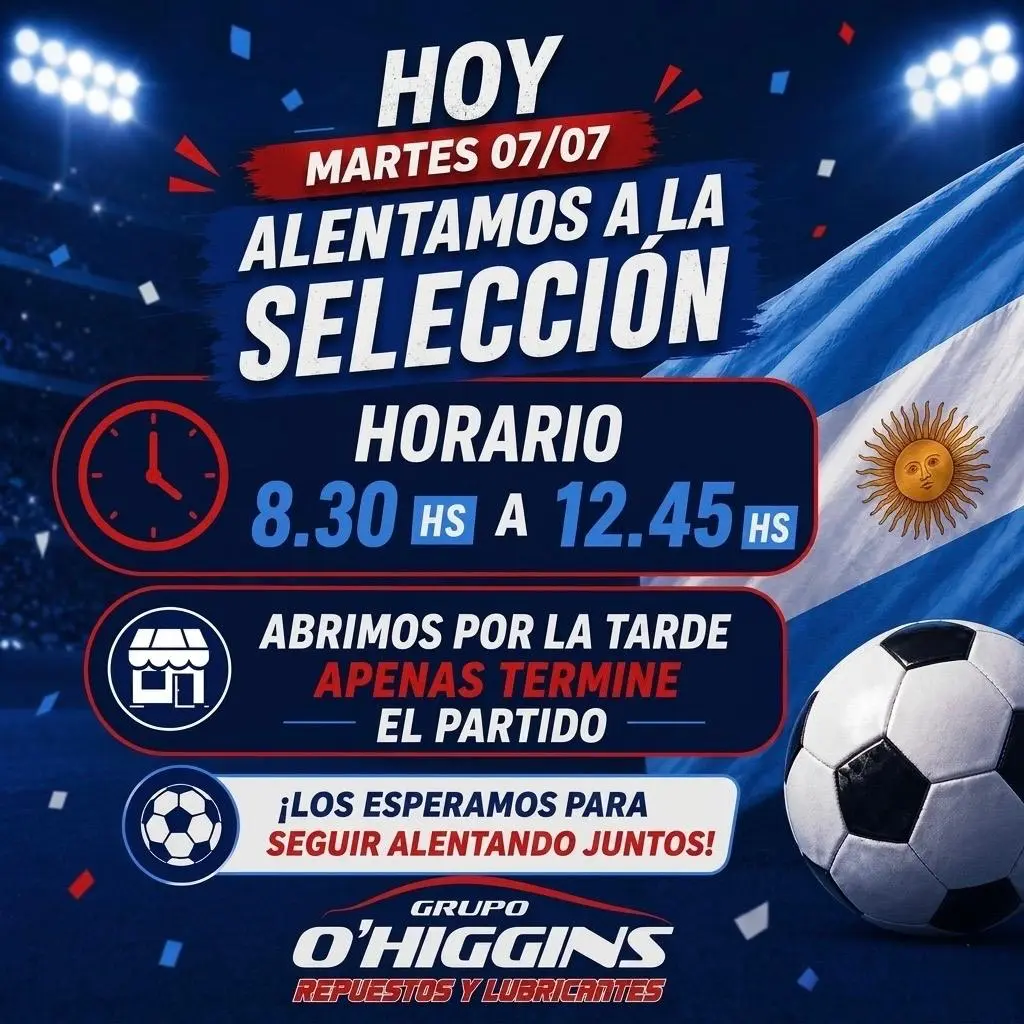
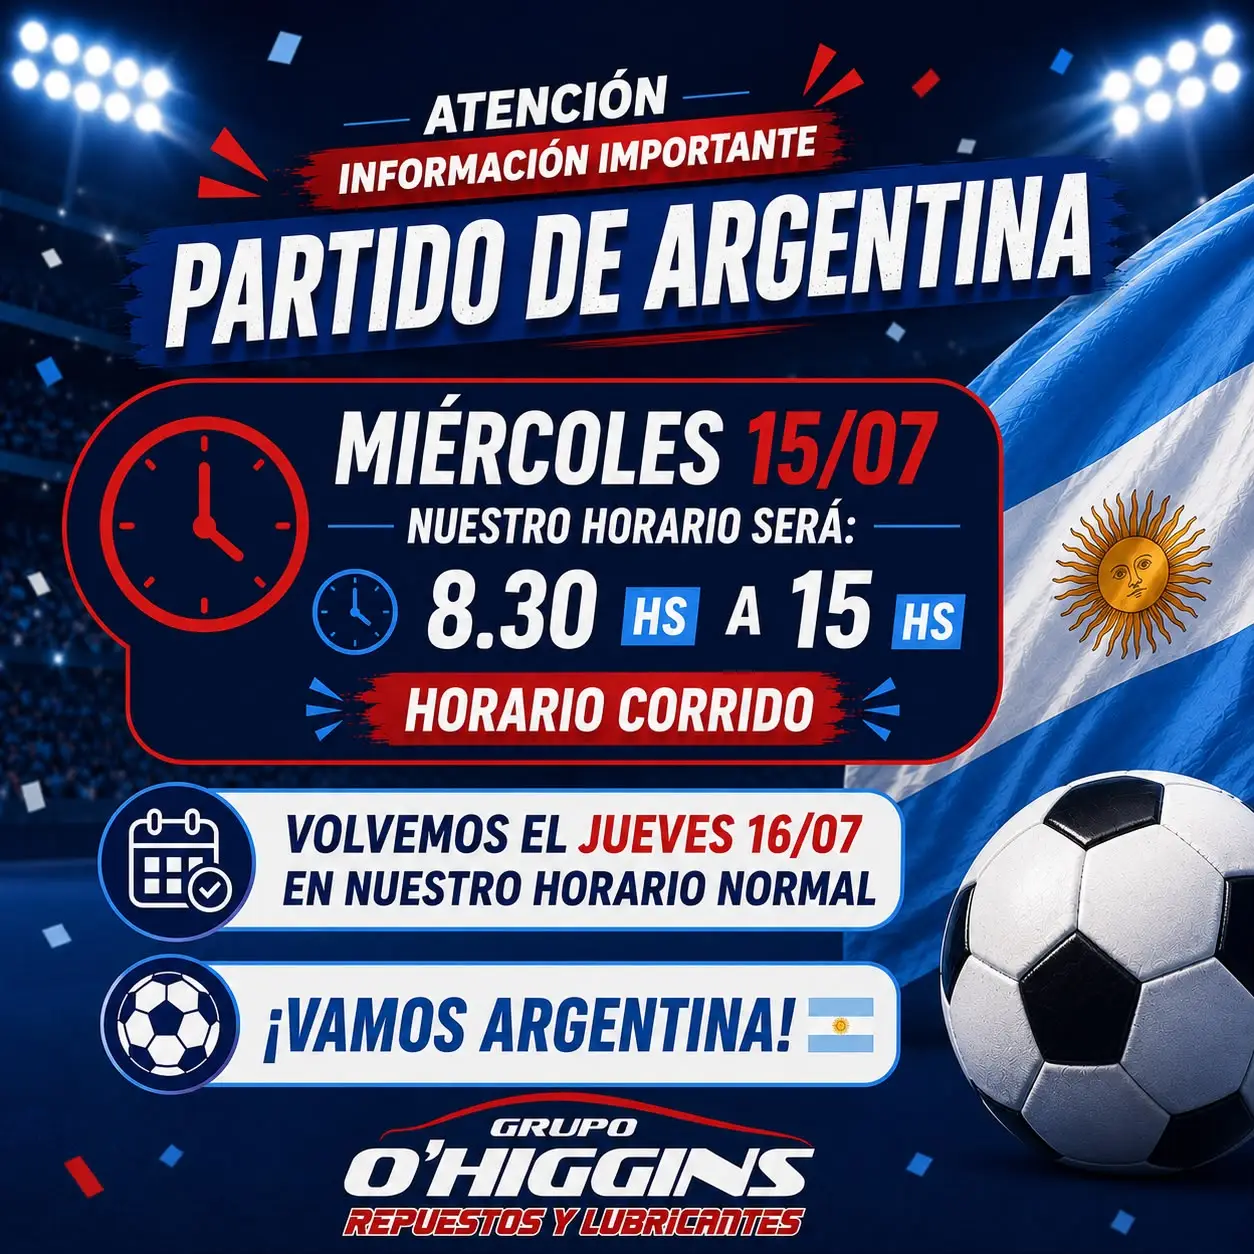
agregando aviso seleccion 15/07

diff --git a/css/style.css b/css/style.css
@@ -5462,3 +5462,32 @@ textarea.form-control {
     align-items: flex-start;
   }
 }
+
+
+
+/* =============================================
+   33. SWEETALERT2 — PARTIDO DE ARGENTINA
+   ============================================= */
+
+/* Fuerza al contenedor oscuro de SweetAlert a estar arriba de todo */
+.swal2-container {
+  z-index: 999999 !important;
+}
+
+/* Estilo para el nuevo cartel basado 100% en la imagen */
+.swal-argentina-imagen {
+  z-index: 1000000 !important;
+  background: transparent !important; /* Hace el fondo invisible para que solo luzca tu imagen */
+  box-shadow: none !important; /* Quita sombras viejas */
+  padding: 0 !important; /* Saca los márgenes internos molestos */
+  border-radius: 15px !important; /* Le da un sutil redondeado a las esquinas de la foto */
+  overflow: hidden; /* Corta los bordes en punta de la imagen */
+  max-width: 500px !important; /* Tamaño ideal para que no se vea gigante en PC */
+  width: 90% !important; /* Ajuste perfecto para pantallas de celulares */
+}
+
+/* Cambia el color de la "X" de cerrar para que contraste con el fondo azul de tu imagen */
+.swal-argentina-imagen .swal2-close {
+  color: #ffffff !important;
+  font-size: 32px !important;
+}

diff --git a/js/main.js b/js/main.js
@@ -584,3 +584,24 @@ if (contactForm) {
 })();
 
 
+document.addEventListener("DOMContentLoaded", () => {
+  if (sessionStorage.getItem("bienvenidaMostrada")) {
+    return;
+  }
+
+  sessionStorage.setItem("bienvenidaMostrada", "true");
+
+  Swal.fire({
+    imageUrl: "img/aviso-seleccion.webp",
+    imageWidth: "100%",
+    imageAlt: "Horario Selección Argentina - Grupo O'Higgins",
+    showConfirmButton: false,
+    showCloseButton: true,
+    customClass: {
+      popup: "swal-argentina-imagen",
+    },
+    backdrop: `
+      rgba(0, 0, 0, 0.7) 
+    `,
+  });
+});
